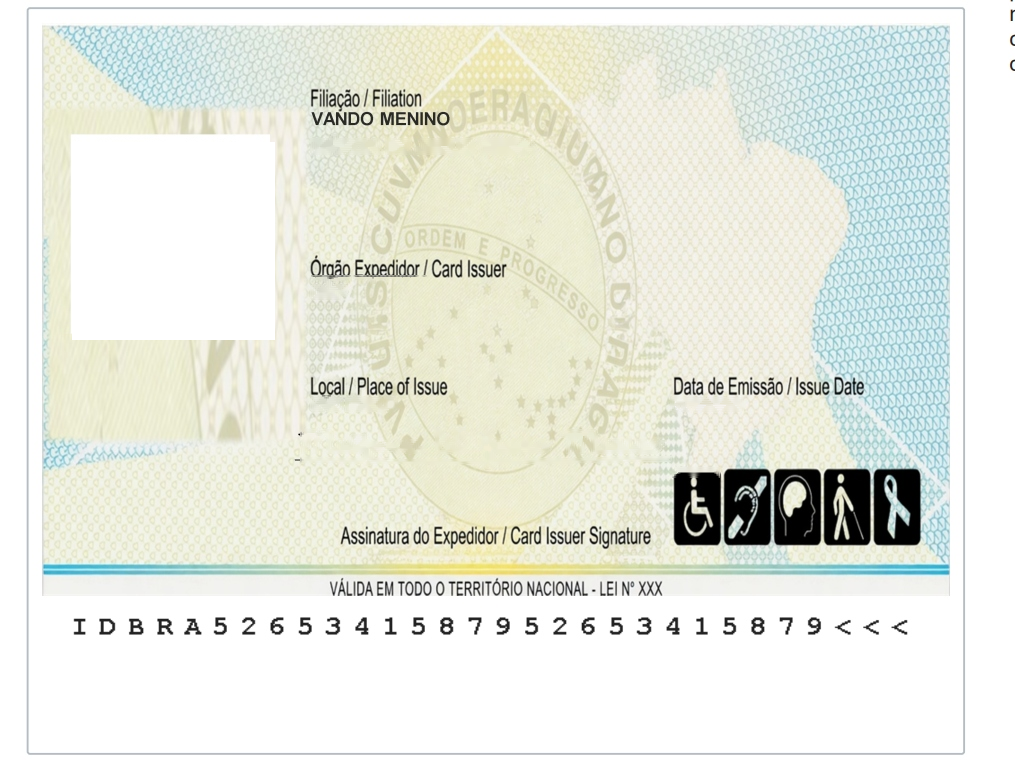
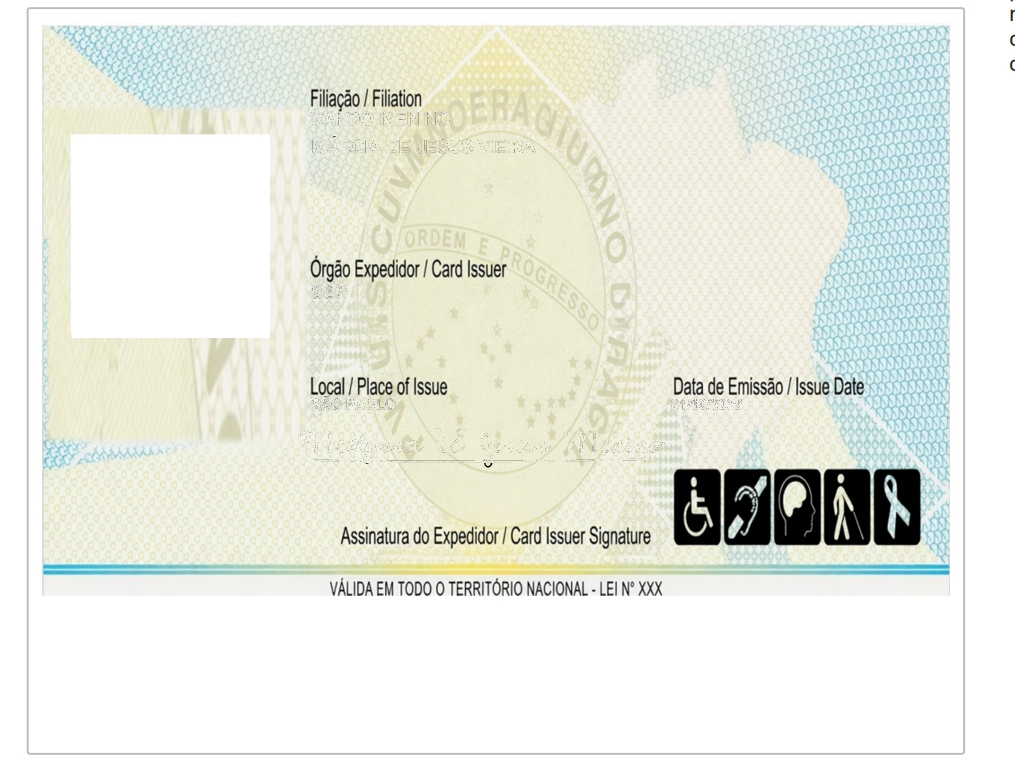
fix(rg): eliminar sobreposicao de texto no verso ao digitar e limpar template

diff --git a/criar-rg.html b/criar-rg.html
@@ -531,13 +531,13 @@
         #cfNat { top: 503px; left: 334px; width: 250px; font-size: 14.5px; text-transform: uppercase; }
         #cfVal { top: 503px; left: 597px; width: 140px; font-size: 14.5px; }
 
-        /* Posições do Verso (Escala 989x685) */
+        /* Posições do Verso (Escala 1015x763) */
         #cvQrBox {
             position: absolute;
-            top: 150px;
-            left: 84px;
-            width: 236px;
-            height: 196px;
+            top: 140px;
+            left: 72px;
+            width: 198px;
+            height: 198px;
             background: #ffffff;
             display: flex;
             align-items: center;
@@ -546,18 +546,18 @@
             padding: 0;
             box-sizing: border-box;
         }
-        #cvQrBox img, #cvQrBox canvas { height: 190px !important; width: 190px !important; }
-        #cvPai { top: 130px; left: 316px; width: 560px; font-size: 15px; font-weight: 700; text-transform: uppercase; }
-        #cvMae { top: 157px; left: 316px; width: 560px; font-size: 15px; font-weight: 700; text-transform: uppercase; }
-        #cvOrgao { top: 298px; left: 316px; width: 200px; font-size: 14px; font-weight: 700; }
-        #cvLocal { top: 408px; left: 316px; width: 300px; font-size: 13.5px; font-weight: 700; text-transform: uppercase; }
-        #cvEmissao { top: 408px; left: 662px; width: 180px; font-size: 13.5px; font-weight: 700; }
+        #cvQrBox img, #cvQrBox canvas { height: 198px !important; width: 198px !important; display: block; }
+        #cvPai { top: 111px; left: 308px; width: 550px; font-size: 14.5px; font-weight: 700; text-transform: uppercase; }
+        #cvMae { top: 137px; left: 308px; width: 550px; font-size: 14.5px; font-weight: 700; text-transform: uppercase; }
+        #cvOrgao { top: 283px; left: 308px; width: 200px; font-size: 14px; font-weight: 700; text-transform: uppercase; }
+        #cvLocal { top: 397px; left: 308px; width: 280px; font-size: 13.5px; font-weight: 700; text-transform: uppercase; }
+        #cvEmissao { top: 397px; left: 660px; width: 180px; font-size: 13.5px; font-weight: 700; }
         #cvSigBox {
             position: absolute;
-            top: 424px;
-            left: 304px;
-            width: 372px;
-            height: 48px;
+            top: 418px;
+            left: 290px;
+            width: 380px;
+            height: 46px;
             display: flex;
             align-items: flex-end;
             justify-content: center;
@@ -568,13 +568,13 @@
         #cvSigText { display: none; font-family: 'Homemade Apple', cursive; font-size: 24px; color: #000; font-weight: 600; padding-bottom: 4px; }
         #cvMrz {
             position: absolute;
-            top: 628px;
-            left: 74px;
-            width: 900px;
-            font-family: 'Courier New', Courier, monospace;
-            font-size: 26px;
-            line-height: 33.5px;
-            letter-spacing: 12.3px;
+            top: 618px;
+            left: 56px;
+            width: 880px;
+            font-family: Consolas, 'Courier New', monospace;
+            font-size: 19px;
+            line-height: 30px;
+            letter-spacing: 1px;
             font-weight: 700;
             color: #000000;
             white-space: pre;
@@ -1169,10 +1169,12 @@ MENINO<<MELLYSSA<DE<JESUS<<<<<</div>
                 .split(/\s+/)
                 .join('<');
 
-            const l1 = `IDBRA${cleanCpf}${cleanCpf}<<<`.slice(0, 30).padEnd(30, '<');
-            const l2 = `${nascMrz}${sexMrz}${valMrz}BRA`.padEnd(30, '<').slice(0, 30);
-            const l3 = `${cleanNome.padEnd(30, '<').slice(0, 30)}`;
-            return `${l1}\n${l2}\n${l3}`;
+            const l1Raw = `IDBRA ${cleanCpf} ${cleanCpf}<<<`.slice(0, 31);
+            const l2Raw = `${nascMrz}${sexMrz}${valMrz}BRA<<<<<<<<<<<`.slice(0, 30);
+            const l3Raw = `${cleanNome.padEnd(30, '<').slice(0, 30)}`;
+
+            const formatMrzLine = (s) => s.split('').join(' ');
+            return `${formatMrzLine(l1Raw)}\n${formatMrzLine(l2Raw)}\n${formatMrzLine(l3Raw)}`;
         }
 
         // Renderiza o QR Code do Verso
@@ -1185,8 +1187,8 @@ MENINO<<MELLYSSA<DE<JESUS<<<<<</div>
             if (window.QRCode) {
                 new QRCode(inner, {
                     text: qrUrl,
-                    width: 204,
-                    height: 204,
+                    width: 198,
+                    height: 198,
                     colorDark: '#000000',
                     colorLight: '#ffffff',
                     correctLevel: QRCode.CorrectLevel.M
